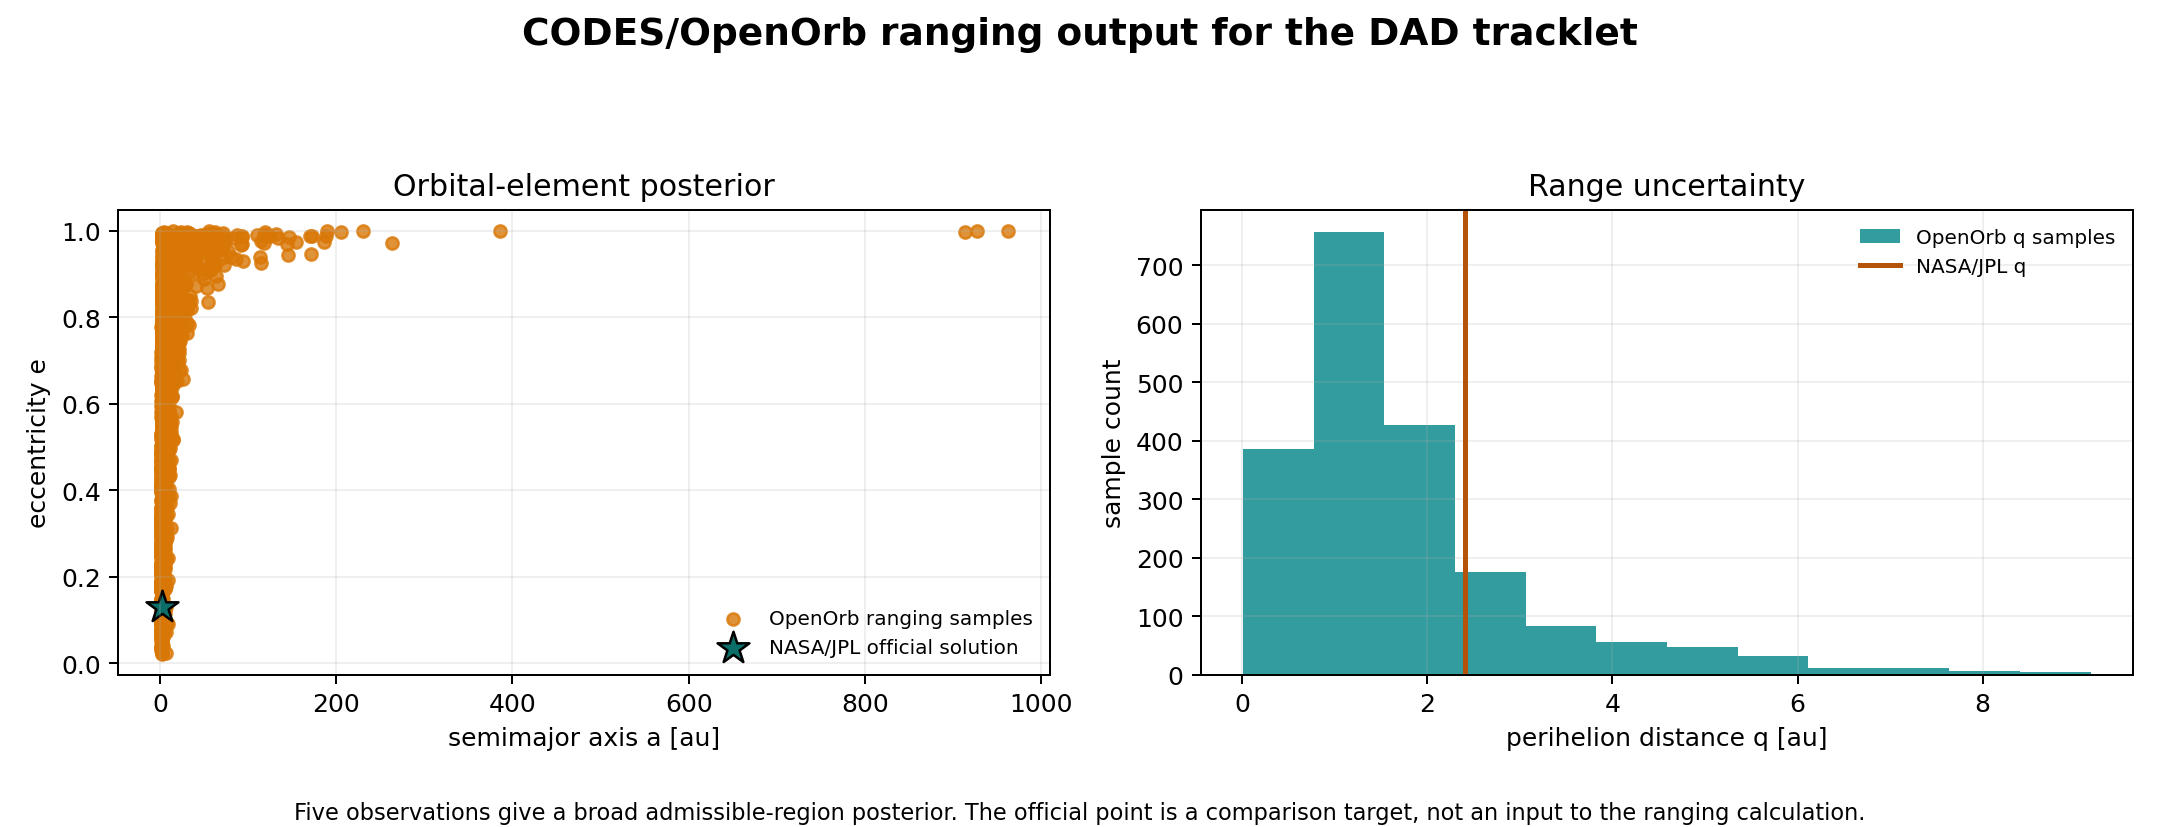
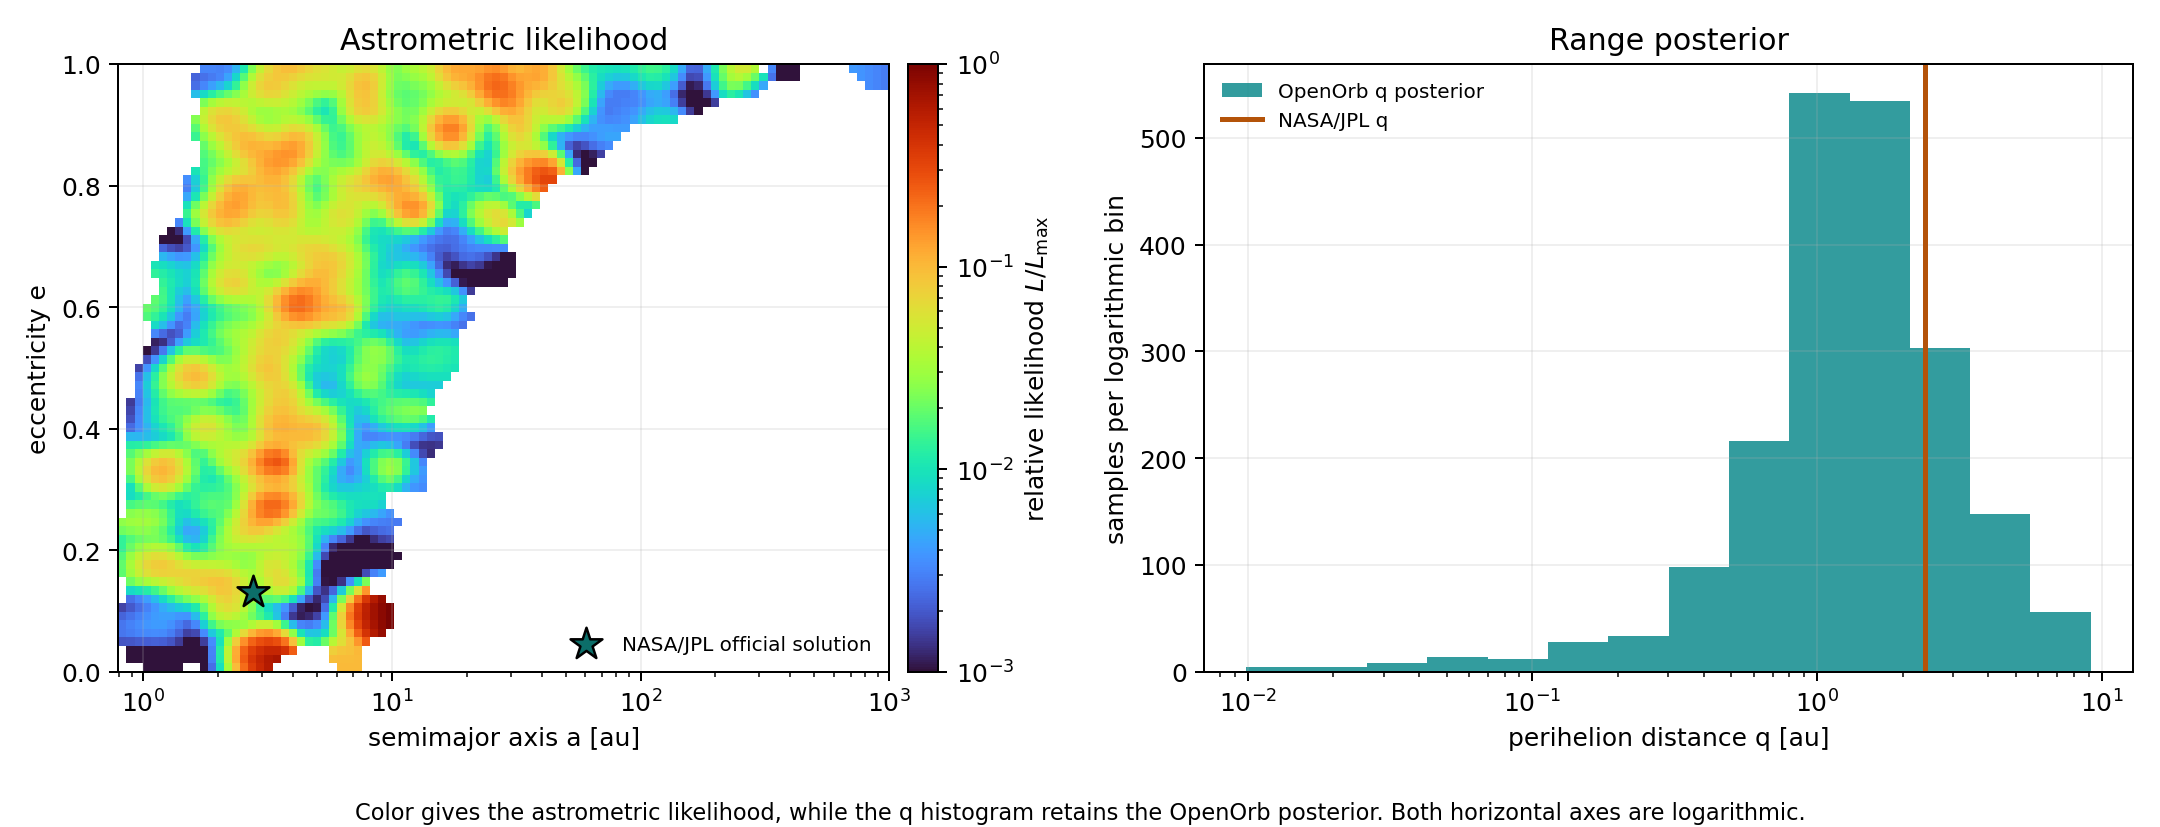
Show OpenOrb likelihood in Figure C.14

diff --git a/appendix_C_solar_system.tex b/appendix_C_solar_system.tex
@@ -1530,8 +1530,19 @@ MPC current format observation file, records the exact executable and
 configuration path, and preserves the ranging output. The ranging posterior
 is intentionally broad for a five exposure arc. This is the expected
 range and radial velocity degeneracy, not a failure of the angular
-astrometry. Figure~\ref{fig:codes-openorb-calculation} shows the resulting
-posterior in $(a,e)$ and $q$ together with the NASA/JPL comparison point.
+astrometry. Each accepted OpenOrb sample retains its astrometric
+$\chi^2$. The additive offset written by OpenOrb cancels in the likelihood
+ratio
+\[
+  \frac{L_i}{L_{\max}} =
+  \exp\left[-\frac{\chi_i^2-\chi_{\min}^2}{2}\right].
+\]
+Figure~\ref{fig:codes-openorb-calculation} shows the sampled likelihood
+field in $(a,e)$. The local likelihood sum is divided by the local sample
+count before smoothing. This operation reduces the influence of ranging
+density and its coordinate Jacobian. The right panel retains the posterior
+distribution of $q$. Both horizontal axes use logarithmic scales. The
+NASA/JPL point provides an external comparison.
 The CODES force model can propagate every accepted sample, allowing later
 observations to be tested against a distribution rather than one fragile
 preliminary orbit.
@@ -1540,9 +1551,12 @@ preliminary orbit.
 \centering
 \includegraphics[width=\textwidth]{appendixC_assets/codes_openorb_calculation.png}
 \caption{OpenOrb statistical ranging output for the DAD demonstration
-tracklet. Orange points are posterior samples and the star is the separate
-NASA/JPL solution for the same numbered object. The broad posterior shows
-why a short optical arc must not be reported as a unique orbit.}
+tracklet. The left panel gives the locally smoothed likelihood field in
+$(a,e)$. Color represents $L/L_{\max}$. Regions without sampled support
+remain blank. The right panel gives the OpenOrb posterior count in
+logarithmic $q$ bins. The horizontal axes are logarithmic. The star and
+vertical line mark the separate NASA/JPL solution for the same numbered
+object. The official solution does not enter the ranging calculation.}
 \label{fig:codes-openorb-calculation}
 \end{figure}
 
